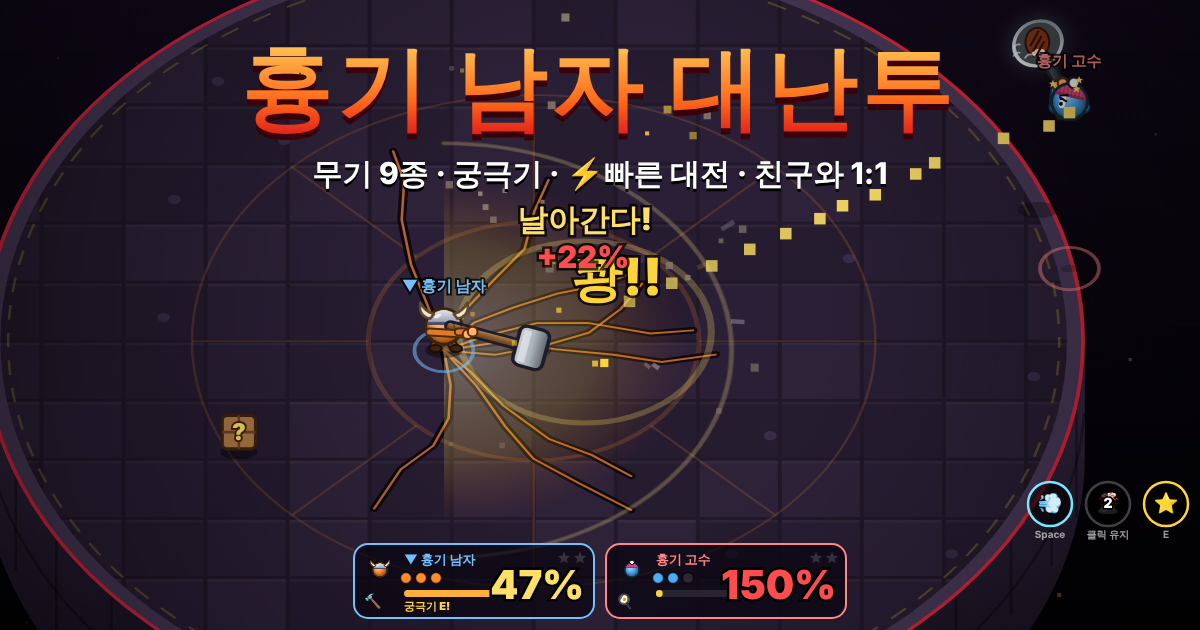
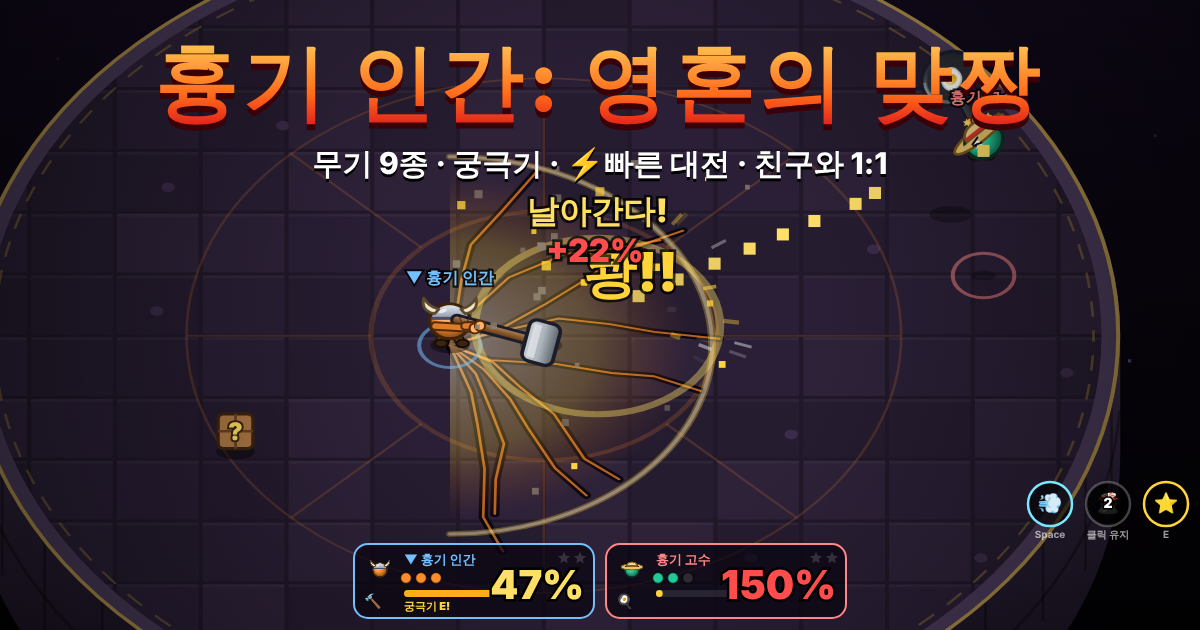
게임 제목을 '흉기 인간: 영혼의 맞짱'으로 변경
- 화면 제목·탭·링크 미리보기(문구·그림)·기본 캐릭터 이름 변경
- 예전 기본 이름을 쓰던 사람은 자동으로 새 이름으로

Claude-Session: https://claude.ai/code/session_01H1obTwPXtVzs6wE3Wii9HJ

diff --git a/docs/index.html b/docs/index.html
@@ -3,10 +3,10 @@
 <head>
 <meta charset="utf-8">
 <meta name="viewport" content="width=device-width,initial-scale=1,maximum-scale=1,user-scalable=no">
-<title>흉기 남자 대난투</title>
+<title>흉기 인간: 영혼의 맞짱</title>
 <meta name="description" content="링크만 누르면 바로! 무기 9종으로 상대를 경기장 밖으로 날려라. 봇 대결 · ⚡빠른 대전 · 친구와 1:1">
 <meta property="og:type" content="website">
-<meta property="og:title" content="흉기 남자 대난투">
+<meta property="og:title" content="흉기 인간: 영혼의 맞짱">
 <meta property="og:description" content="링크만 누르면 바로! 무기 9종으로 상대를 경기장 밖으로 날려라. 봇 대결 · ⚡빠른 대전 · 친구와 1:1">
 <meta property="og:url" content="https://isitcold07-glitch.github.io/dungi-brawl/">
 <meta property="og:image" content="https://isitcold07-glitch.github.io/dungi-brawl/og.png">
@@ -89,7 +89,7 @@ p.sub{opacity:.85;margin-bottom:14px;line-height:1.6}
 <div id="grdBtn" class="tbtn">🛡</div>
 
 <div id="menu" class="ov show">
-  <h1>흉기 남자<small>대난투</small></h1>
+  <h1>흉기 인간<small>영혼의 맞짱</small></h1>
   <p class="sub">때려서 %를 쌓고, 경기장 밖으로 날려라! 목숨 3개 · 3판 2선승</p>
   <div id="recLine" class="rec"></div>
   <div id="authBox" class="auth" style="display:none"></div>
@@ -115,7 +115,7 @@ p.sub{opacity:.85;margin-bottom:14px;line-height:1.6}
   <h2>🎨 꾸미기</h2>
   <canvas id="lookCv" width="520" height="420"></canvas>
   <div class="lab">이름</div>
-  <input id="nmIn" maxlength="8" placeholder="흉기 남자">
+  <input id="nmIn" maxlength="8" placeholder="흉기 인간">
   <div class="lab">몸 색</div><div class="opts" id="oCol"></div>
   <div class="lab">모자</div><div class="opts" id="oHat"></div>
   <div class="lab">눈</div><div class="opts" id="oEye"></div>
@@ -476,7 +476,7 @@ function overheadPose(){if(P.U&&P.U.k!=='twin'&&P.U.k!=='bat'&&P.U.k!=='flail')r
 let VG=null,VGs='';
 function vignette(){const key=W+'x'+H;if(VGs!==key){VGs=key;VG=ctx.createRadialGradient(W/2,H/2,Math.min(W,H)*.35,W/2,H/2,Math.hypot(W,H)*.6);VG.addColorStop(0,'rgba(0,0,0,0)');VG.addColorStop(1,'rgba(0,0,0,.6)');}ctx.fillStyle=VG;ctx.fillRect(0,0,W,H);}
 
-/* ================= 대난투 본체 ================= */
+/* ================= 게임 본체 ================= */
 const AR=430;            // 경기장 반지름
 const KB_DIV=145;         // 피해 %가 이만큼 쌓이면 넉백 2배
 const FRIC=3.2;          // 날아가는 속도 감속
@@ -530,8 +530,9 @@ const COLS=['#ff8c2b','#4dabf7','#51cf66','#ff6b9d','#b197fc','#ffd43b','#20c997
 const HATS=[['horn','뿔 투구'],['knight','기사 투구'],['crown','왕관'],['straw','밀짚모자'],['beanie','털모자'],['none','맨머리']];
 const EYES=[['norm','보통'],['angry','부리부리'],['sleepy','졸린 눈'],['dot','점 눈']];
 const WLV=[[0,'기본'],[2,'쇠테'],[4,'강철'],[6,'황금'],[8,'전설']];
-let LOOK={name:'흉기 남자',col:'#ff8c2b',hat:'horn',eye:'norm',wlv:0};
+let LOOK={name:'흉기 인간',col:'#ff8c2b',hat:'horn',eye:'norm',wlv:0};
 try{const s=JSON.parse(localStorage.getItem('brawlLook'));if(s)LOOK=Object.assign(LOOK,s);}catch(e){}
+if(LOOK.name==='흉기 남자'||LOOK.name==='둔기 남자')LOOK.name='흉기 인간'; // 예전 기본 이름은 새 기본 이름으로
 let CFG={wp:'hammer',bot:'random',lv:'normal',bo:3,items:true};
 try{const s=JSON.parse(localStorage.getItem('brawlCfg'));if(s)CFG=Object.assign(CFG,s);}catch(e){}
 // 전적: 기기에 저장, 로그인하면 Firebase에도 저장 (on = 온라인, bot = 봇)
@@ -665,7 +666,7 @@ const OV=['menu','look','pause','over','online'];
 function hideAll(){OV.forEach(i=>$(i).classList.remove('show'));}
 function show(i){hideAll();$(i).classList.add('show');}
 
-function mkF(id,wp,look,bot){const D=WD[wp];return{id,wp,bot,name:look.name||'흉기 남자',col:look.col,hat:look.hat,eye:look.eye,wlv:look.wlv,tc:id?'#ff8787':'#74c0fc',
+function mkF(id,wp,look,bot){const D=WD[wp];return{id,wp,bot,name:look.name||'흉기 인간',col:look.col,hat:look.hat,eye:look.eye,wlv:look.wlv,tc:id?'#ff8787':'#74c0fc',
  x:0,y:0,z:0,vz:0,kx:0,ky:0,r:14,pct:0,stocks:3,state:'alive',face:0,mvx:1,mvy:0,walk:0,
  reach:D.reach,arc:D.arc,spd:D.spd,sw:null,swCd:0,swDir:1,queued:false,charging:false,chargeT:0,chargeSnd:0,atkHeld:false,
  slamPend:null,slamCd:0,slamAnim:0,slamA:0,spinA:null,stun:0,lag:0,inv:0,rinv:0,dashT:0,dashN:D.dash,dashMax:D.dash,dashCd:0,dashCdMax:1.4,dvx:0,dvy:0,dashAt:-9,trailT:0,
@@ -1119,14 +1120,14 @@ function renderMenu(){const box=$('wcards');box.innerHTML='';
  const ds=$('dsel');ds.innerHTML='';for(const k in BOTD){const b=document.createElement('button');b.className=CFG.lv===k?'on':'';b.innerHTML=BOTD[k].nm+'<small>'+BOTD[k].sub+'</small>';b.onclick=()=>{CFG.lv=k;saveCfg();renderMenu();};ds.appendChild(b);}
  const is=$('isel');is.innerHTML='';for(const [k,nm,sub] of[[true,'📦 아이템 켬','가끔 상자가 떨어져요'],[false,'아이템 끔','실력만으로']]){const b=document.createElement('button');b.className=CFG.items===k?'on':'';b.innerHTML=nm+'<small>'+sub+'</small>';b.onclick=()=>{CFG.items=k;saveCfg();renderMenu();};is.appendChild(b);}
  const bo=$('bosel');bo.innerHTML='';for(const [k,nm,sub] of[[1,'단판','목숨 3개 한 판'],[3,'3판 2선승','먼저 2판 이기면 승리']]){const b=document.createElement('button');b.className=CFG.bo===k?'on':'';b.innerHTML=nm+'<small>'+sub+'</small>';b.onclick=()=>{CFG.bo=k;saveCfg();renderMenu();};bo.appendChild(b);}
- $('meName').textContent=LOOK.name||'흉기 남자';renderRec();renderAuth();}
+ $('meName').textContent=LOOK.name||'흉기 인간';renderRec();renderAuth();}
 function renderLook(){const mk=(id,list,cur,set,sw)=>{const box=$(id);box.innerHTML='';for(const [v,lb] of list){const b=document.createElement('button');b.className=(sw?'sw':'')+(cur===v?' on':'');if(sw){b.style.background=v;b.title=v;}else b.textContent=lb;b.onclick=()=>{set(v);saveLook();renderLook();};box.appendChild(b);}};
  mk('oCol',COLS.map(c=>[c,'']),LOOK.col,v=>LOOK.col=v,true);
  mk('oHat',HATS,LOOK.hat,v=>LOOK.hat=v);mk('oEye',EYES,LOOK.eye,v=>LOOK.eye=v);mk('oWlv',WLV,LOOK.wlv,v=>LOOK.wlv=v);}
 function openLook(){state='look';$('nmIn').value=LOOK.name;renderLook();show('look');}
-function closeLook(){LOOK.name=($('nmIn').value||'').trim().slice(0,8)||'흉기 남자';saveLook();state='menu';renderMenu();show('menu');}
+function closeLook(){LOOK.name=($('nmIn').value||'').trim().slice(0,8)||'흉기 인간';saveLook();state='menu';renderMenu();show('menu');}
 $('lookBtn').onclick=openLook;$('lookDone').onclick=closeLook;
-$('nmIn').addEventListener('input',()=>{LOOK.name=$('nmIn').value.trim().slice(0,8)||'흉기 남자';});
+$('nmIn').addEventListener('input',()=>{LOOK.name=$('nmIn').value.trim().slice(0,8)||'흉기 인간';});
 
 // 미리보기 캐릭터 (메뉴·꾸미기 화면): 천천히 돌면서 가끔 휘두른다
 let pv=null,pvT=0;

diff --git a/둔기대난투/brawl_dev.html b/둔기대난투/brawl_dev.html
@@ -3,7 +3,7 @@
 <head>
 <meta charset="utf-8">
 <meta name="viewport" content="width=device-width,initial-scale=1,maximum-scale=1,user-scalable=no">
-<title>흉기 남자 대난투</title>
+<title>흉기 인간: 영혼의 맞짱</title>
 <style>
 *{box-sizing:border-box;margin:0;padding:0}
 html,body{height:100%;overflow:hidden;background:#0b0710;font-family:system-ui,-apple-system,"Apple SD Gothic Neo","Malgun Gothic",sans-serif;color:#f4ecff;user-select:none;-webkit-user-select:none;touch-action:none}
@@ -78,7 +78,7 @@ p.sub{opacity:.85;margin-bottom:14px;line-height:1.6}
 <div id="grdBtn" class="tbtn">🛡</div>
 
 <div id="menu" class="ov show">
-  <h1>흉기 남자<small>대난투</small></h1>
+  <h1>흉기 인간<small>영혼의 맞짱</small></h1>
   <p class="sub">때려서 %를 쌓고, 경기장 밖으로 날려라! 목숨 3개 · 3판 2선승</p>
   <div id="recLine" class="rec"></div>
   <div id="authBox" class="auth" style="display:none"></div>
@@ -104,7 +104,7 @@ p.sub{opacity:.85;margin-bottom:14px;line-height:1.6}
   <h2>🎨 꾸미기</h2>
   <canvas id="lookCv" width="520" height="420"></canvas>
   <div class="lab">이름</div>
-  <input id="nmIn" maxlength="8" placeholder="흉기 남자">
+  <input id="nmIn" maxlength="8" placeholder="흉기 인간">
   <div class="lab">몸 색</div><div class="opts" id="oCol"></div>
   <div class="lab">모자</div><div class="opts" id="oHat"></div>
   <div class="lab">눈</div><div class="opts" id="oEye"></div>
@@ -465,7 +465,7 @@ function overheadPose(){if(P.U&&P.U.k!=='twin'&&P.U.k!=='bat'&&P.U.k!=='flail')r
 let VG=null,VGs='';
 function vignette(){const key=W+'x'+H;if(VGs!==key){VGs=key;VG=ctx.createRadialGradient(W/2,H/2,Math.min(W,H)*.35,W/2,H/2,Math.hypot(W,H)*.6);VG.addColorStop(0,'rgba(0,0,0,0)');VG.addColorStop(1,'rgba(0,0,0,.6)');}ctx.fillStyle=VG;ctx.fillRect(0,0,W,H);}
 
-/* ================= 대난투 본체 ================= */
+/* ================= 게임 본체 ================= */
 const AR=430;            // 경기장 반지름
 const KB_DIV=145;         // 피해 %가 이만큼 쌓이면 넉백 2배
 const FRIC=3.2;          // 날아가는 속도 감속
@@ -519,8 +519,9 @@ const COLS=['#ff8c2b','#4dabf7','#51cf66','#ff6b9d','#b197fc','#ffd43b','#20c997
 const HATS=[['horn','뿔 투구'],['knight','기사 투구'],['crown','왕관'],['straw','밀짚모자'],['beanie','털모자'],['none','맨머리']];
 const EYES=[['norm','보통'],['angry','부리부리'],['sleepy','졸린 눈'],['dot','점 눈']];
 const WLV=[[0,'기본'],[2,'쇠테'],[4,'강철'],[6,'황금'],[8,'전설']];
-let LOOK={name:'흉기 남자',col:'#ff8c2b',hat:'horn',eye:'norm',wlv:0};
+let LOOK={name:'흉기 인간',col:'#ff8c2b',hat:'horn',eye:'norm',wlv:0};
 try{const s=JSON.parse(localStorage.getItem('brawlLook'));if(s)LOOK=Object.assign(LOOK,s);}catch(e){}
+if(LOOK.name==='흉기 남자'||LOOK.name==='둔기 남자')LOOK.name='흉기 인간'; // 예전 기본 이름은 새 기본 이름으로
 let CFG={wp:'hammer',bot:'random',lv:'normal',bo:3,items:true};
 try{const s=JSON.parse(localStorage.getItem('brawlCfg'));if(s)CFG=Object.assign(CFG,s);}catch(e){}
 // 전적: 기기에 저장, 로그인하면 Firebase에도 저장 (on = 온라인, bot = 봇)
@@ -654,7 +655,7 @@ const OV=['menu','look','pause','over','online'];
 function hideAll(){OV.forEach(i=>$(i).classList.remove('show'));}
 function show(i){hideAll();$(i).classList.add('show');}
 
-function mkF(id,wp,look,bot){const D=WD[wp];return{id,wp,bot,name:look.name||'흉기 남자',col:look.col,hat:look.hat,eye:look.eye,wlv:look.wlv,tc:id?'#ff8787':'#74c0fc',
+function mkF(id,wp,look,bot){const D=WD[wp];return{id,wp,bot,name:look.name||'흉기 인간',col:look.col,hat:look.hat,eye:look.eye,wlv:look.wlv,tc:id?'#ff8787':'#74c0fc',
  x:0,y:0,z:0,vz:0,kx:0,ky:0,r:14,pct:0,stocks:3,state:'alive',face:0,mvx:1,mvy:0,walk:0,
  reach:D.reach,arc:D.arc,spd:D.spd,sw:null,swCd:0,swDir:1,queued:false,charging:false,chargeT:0,chargeSnd:0,atkHeld:false,
  slamPend:null,slamCd:0,slamAnim:0,slamA:0,spinA:null,stun:0,lag:0,inv:0,rinv:0,dashT:0,dashN:D.dash,dashMax:D.dash,dashCd:0,dashCdMax:1.4,dvx:0,dvy:0,dashAt:-9,trailT:0,
@@ -1108,14 +1109,14 @@ function renderMenu(){const box=$('wcards');box.innerHTML='';
  const ds=$('dsel');ds.innerHTML='';for(const k in BOTD){const b=document.createElement('button');b.className=CFG.lv===k?'on':'';b.innerHTML=BOTD[k].nm+'<small>'+BOTD[k].sub+'</small>';b.onclick=()=>{CFG.lv=k;saveCfg();renderMenu();};ds.appendChild(b);}
  const is=$('isel');is.innerHTML='';for(const [k,nm,sub] of[[true,'📦 아이템 켬','가끔 상자가 떨어져요'],[false,'아이템 끔','실력만으로']]){const b=document.createElement('button');b.className=CFG.items===k?'on':'';b.innerHTML=nm+'<small>'+sub+'</small>';b.onclick=()=>{CFG.items=k;saveCfg();renderMenu();};is.appendChild(b);}
  const bo=$('bosel');bo.innerHTML='';for(const [k,nm,sub] of[[1,'단판','목숨 3개 한 판'],[3,'3판 2선승','먼저 2판 이기면 승리']]){const b=document.createElement('button');b.className=CFG.bo===k?'on':'';b.innerHTML=nm+'<small>'+sub+'</small>';b.onclick=()=>{CFG.bo=k;saveCfg();renderMenu();};bo.appendChild(b);}
- $('meName').textContent=LOOK.name||'흉기 남자';renderRec();renderAuth();}
+ $('meName').textContent=LOOK.name||'흉기 인간';renderRec();renderAuth();}
 function renderLook(){const mk=(id,list,cur,set,sw)=>{const box=$(id);box.innerHTML='';for(const [v,lb] of list){const b=document.createElement('button');b.className=(sw?'sw':'')+(cur===v?' on':'');if(sw){b.style.background=v;b.title=v;}else b.textContent=lb;b.onclick=()=>{set(v);saveLook();renderLook();};box.appendChild(b);}};
  mk('oCol',COLS.map(c=>[c,'']),LOOK.col,v=>LOOK.col=v,true);
  mk('oHat',HATS,LOOK.hat,v=>LOOK.hat=v);mk('oEye',EYES,LOOK.eye,v=>LOOK.eye=v);mk('oWlv',WLV,LOOK.wlv,v=>LOOK.wlv=v);}
 function openLook(){state='look';$('nmIn').value=LOOK.name;renderLook();show('look');}
-function closeLook(){LOOK.name=($('nmIn').value||'').trim().slice(0,8)||'흉기 남자';saveLook();state='menu';renderMenu();show('menu');}
+function closeLook(){LOOK.name=($('nmIn').value||'').trim().slice(0,8)||'흉기 인간';saveLook();state='menu';renderMenu();show('menu');}
 $('lookBtn').onclick=openLook;$('lookDone').onclick=closeLook;
-$('nmIn').addEventListener('input',()=>{LOOK.name=$('nmIn').value.trim().slice(0,8)||'흉기 남자';});
+$('nmIn').addEventListener('input',()=>{LOOK.name=$('nmIn').value.trim().slice(0,8)||'흉기 인간';});
 
 // 미리보기 캐릭터 (메뉴·꾸미기 화면): 천천히 돌면서 가끔 휘두른다
 let pv=null,pvT=0;

diff --git a/둔기대난투/brawl.html b/둔기대난투/brawl.html
@@ -1,4 +1,4 @@
-<title>흉기 남자 대난투</title>
+<title>흉기 인간: 영혼의 맞짱</title>
 <style>
 *{box-sizing:border-box;margin:0;padding:0}
 html,body{height:100%;overflow:hidden;background:#0b0710;font-family:system-ui,-apple-system,"Apple SD Gothic Neo","Malgun Gothic",sans-serif;color:#f4ecff;user-select:none;-webkit-user-select:none;touch-action:none}
@@ -71,7 +71,7 @@ p.sub{opacity:.85;margin-bottom:14px;line-height:1.6}
 <div id="grdBtn" class="tbtn">🛡</div>
 
 <div id="menu" class="ov show">
-  <h1>흉기 남자<small>대난투</small></h1>
+  <h1>흉기 인간<small>영혼의 맞짱</small></h1>
   <p class="sub">때려서 %를 쌓고, 경기장 밖으로 날려라! 목숨 3개 · 3판 2선승</p>
   <div id="recLine" class="rec"></div>
   <div id="authBox" class="auth" style="display:none"></div>
@@ -97,7 +97,7 @@ p.sub{opacity:.85;margin-bottom:14px;line-height:1.6}
   <h2>🎨 꾸미기</h2>
   <canvas id="lookCv" width="520" height="420"></canvas>
   <div class="lab">이름</div>
-  <input id="nmIn" maxlength="8" placeholder="흉기 남자">
+  <input id="nmIn" maxlength="8" placeholder="흉기 인간">
   <div class="lab">몸 색</div><div class="opts" id="oCol"></div>
   <div class="lab">모자</div><div class="opts" id="oHat"></div>
   <div class="lab">눈</div><div class="opts" id="oEye"></div>
@@ -458,7 +458,7 @@ function overheadPose(){if(P.U&&P.U.k!=='twin'&&P.U.k!=='bat'&&P.U.k!=='flail')r
 let VG=null,VGs='';
 function vignette(){const key=W+'x'+H;if(VGs!==key){VGs=key;VG=ctx.createRadialGradient(W/2,H/2,Math.min(W,H)*.35,W/2,H/2,Math.hypot(W,H)*.6);VG.addColorStop(0,'rgba(0,0,0,0)');VG.addColorStop(1,'rgba(0,0,0,.6)');}ctx.fillStyle=VG;ctx.fillRect(0,0,W,H);}
 
-/* ================= 대난투 본체 ================= */
+/* ================= 게임 본체 ================= */
 const AR=430;            // 경기장 반지름
 const KB_DIV=145;         // 피해 %가 이만큼 쌓이면 넉백 2배
 const FRIC=3.2;          // 날아가는 속도 감속
@@ -512,8 +512,9 @@ const COLS=['#ff8c2b','#4dabf7','#51cf66','#ff6b9d','#b197fc','#ffd43b','#20c997
 const HATS=[['horn','뿔 투구'],['knight','기사 투구'],['crown','왕관'],['straw','밀짚모자'],['beanie','털모자'],['none','맨머리']];
 const EYES=[['norm','보통'],['angry','부리부리'],['sleepy','졸린 눈'],['dot','점 눈']];
 const WLV=[[0,'기본'],[2,'쇠테'],[4,'강철'],[6,'황금'],[8,'전설']];
-let LOOK={name:'흉기 남자',col:'#ff8c2b',hat:'horn',eye:'norm',wlv:0};
+let LOOK={name:'흉기 인간',col:'#ff8c2b',hat:'horn',eye:'norm',wlv:0};
 try{const s=JSON.parse(localStorage.getItem('brawlLook'));if(s)LOOK=Object.assign(LOOK,s);}catch(e){}
+if(LOOK.name==='흉기 남자'||LOOK.name==='둔기 남자')LOOK.name='흉기 인간'; // 예전 기본 이름은 새 기본 이름으로
 let CFG={wp:'hammer',bot:'random',lv:'normal',bo:3,items:true};
 try{const s=JSON.parse(localStorage.getItem('brawlCfg'));if(s)CFG=Object.assign(CFG,s);}catch(e){}
 // 전적: 기기에 저장, 로그인하면 Firebase에도 저장 (on = 온라인, bot = 봇)
@@ -647,7 +648,7 @@ const OV=['menu','look','pause','over','online'];
 function hideAll(){OV.forEach(i=>$(i).classList.remove('show'));}
 function show(i){hideAll();$(i).classList.add('show');}
 
-function mkF(id,wp,look,bot){const D=WD[wp];return{id,wp,bot,name:look.name||'흉기 남자',col:look.col,hat:look.hat,eye:look.eye,wlv:look.wlv,tc:id?'#ff8787':'#74c0fc',
+function mkF(id,wp,look,bot){const D=WD[wp];return{id,wp,bot,name:look.name||'흉기 인간',col:look.col,hat:look.hat,eye:look.eye,wlv:look.wlv,tc:id?'#ff8787':'#74c0fc',
  x:0,y:0,z:0,vz:0,kx:0,ky:0,r:14,pct:0,stocks:3,state:'alive',face:0,mvx:1,mvy:0,walk:0,
  reach:D.reach,arc:D.arc,spd:D.spd,sw:null,swCd:0,swDir:1,queued:false,charging:false,chargeT:0,chargeSnd:0,atkHeld:false,
  slamPend:null,slamCd:0,slamAnim:0,slamA:0,spinA:null,stun:0,lag:0,inv:0,rinv:0,dashT:0,dashN:D.dash,dashMax:D.dash,dashCd:0,dashCdMax:1.4,dvx:0,dvy:0,dashAt:-9,trailT:0,
@@ -1101,14 +1102,14 @@ function renderMenu(){const box=$('wcards');box.innerHTML='';
  const ds=$('dsel');ds.innerHTML='';for(const k in BOTD){const b=document.createElement('button');b.className=CFG.lv===k?'on':'';b.innerHTML=BOTD[k].nm+'<small>'+BOTD[k].sub+'</small>';b.onclick=()=>{CFG.lv=k;saveCfg();renderMenu();};ds.appendChild(b);}
  const is=$('isel');is.innerHTML='';for(const [k,nm,sub] of[[true,'📦 아이템 켬','가끔 상자가 떨어져요'],[false,'아이템 끔','실력만으로']]){const b=document.createElement('button');b.className=CFG.items===k?'on':'';b.innerHTML=nm+'<small>'+sub+'</small>';b.onclick=()=>{CFG.items=k;saveCfg();renderMenu();};is.appendChild(b);}
  const bo=$('bosel');bo.innerHTML='';for(const [k,nm,sub] of[[1,'단판','목숨 3개 한 판'],[3,'3판 2선승','먼저 2판 이기면 승리']]){const b=document.createElement('button');b.className=CFG.bo===k?'on':'';b.innerHTML=nm+'<small>'+sub+'</small>';b.onclick=()=>{CFG.bo=k;saveCfg();renderMenu();};bo.appendChild(b);}
- $('meName').textContent=LOOK.name||'흉기 남자';renderRec();renderAuth();}
+ $('meName').textContent=LOOK.name||'흉기 인간';renderRec();renderAuth();}
 function renderLook(){const mk=(id,list,cur,set,sw)=>{const box=$(id);box.innerHTML='';for(const [v,lb] of list){const b=document.createElement('button');b.className=(sw?'sw':'')+(cur===v?' on':'');if(sw){b.style.background=v;b.title=v;}else b.textContent=lb;b.onclick=()=>{set(v);saveLook();renderLook();};box.appendChild(b);}};
  mk('oCol',COLS.map(c=>[c,'']),LOOK.col,v=>LOOK.col=v,true);
  mk('oHat',HATS,LOOK.hat,v=>LOOK.hat=v);mk('oEye',EYES,LOOK.eye,v=>LOOK.eye=v);mk('oWlv',WLV,LOOK.wlv,v=>LOOK.wlv=v);}
 function openLook(){state='look';$('nmIn').value=LOOK.name;renderLook();show('look');}
-function closeLook(){LOOK.name=($('nmIn').value||'').trim().slice(0,8)||'흉기 남자';saveLook();state='menu';renderMenu();show('menu');}
+function closeLook(){LOOK.name=($('nmIn').value||'').trim().slice(0,8)||'흉기 인간';saveLook();state='menu';renderMenu();show('menu');}
 $('lookBtn').onclick=openLook;$('lookDone').onclick=closeLook;
-$('nmIn').addEventListener('input',()=>{LOOK.name=$('nmIn').value.trim().slice(0,8)||'흉기 남자';});
+$('nmIn').addEventListener('input',()=>{LOOK.name=$('nmIn').value.trim().slice(0,8)||'흉기 인간';});
 
 // 미리보기 캐릭터 (메뉴·꾸미기 화면): 천천히 돌면서 가끔 휘두른다
 let pv=null,pvT=0;

diff --git a/둔기대난투/build_public.py b/둔기대난투/build_public.py
@@ -13,7 +13,7 @@ os.makedirs('../docs', exist_ok=True)
 URL = 'https://isitcold07-glitch.github.io/dungi-brawl/'
 DESC = '링크만 누르면 바로! 무기 9종으로 상대를 경기장 밖으로 날려라. 봇 대결 · ⚡빠른 대전 · 친구와 1:1'
 og = ('<meta name="description" content="%s">\n'
-      '<meta property="og:type" content="website">\n<meta property="og:title" content="흉기 남자 대난투">\n'
+      '<meta property="og:type" content="website">\n<meta property="og:title" content="흉기 인간: 영혼의 맞짱">\n'
       '<meta property="og:description" content="%s">\n<meta property="og:url" content="%s">\n'
       '<meta property="og:image" content="%sog.png">\n<meta property="og:image:width" content="1200">\n<meta property="og:image:height" content="630">\n'
       '<meta name="twitter:card" content="summary_large_image">\n<meta name="theme-color" content="#0b0710">\n') % (DESC, DESC, URL, URL)

diff --git a/둔기대난투/대난투_기획메모.md b/둔기대난투/대난투_기획메모.md
@@ -1,4 +1,4 @@
-# 흉기 남자 대난투 (구 둔기 남자 대난투) — 기획 메모 (새 세션 시작용)
+# 흉기 인간: 영혼의 맞짱 (구 흉기 남자 대난투 · 둔기 남자 대난투) — 기획 메모 (새 세션 시작용)
 
 > 「둔기 남자」(로그라이크, 바탕화면 `해머버서커` 폴더)에서 캐릭터·무기·타격감만 가져와 만드는 **1:1 PvP 대결 게임**. 완전히 새 파일로 만든다. 원본 게임 파일은 건드리지 않는다.
 > 새 세션에서는 "이 메모 보고 1단계 만들어 줘"라고 하면 된다. 참고용 원본은 `바탕화면\해머버서커\hammer_dev.html`.
@@ -148,6 +148,10 @@
 - 테스트(edgegrab.js): 가장자리 0% 상대 장외 / 상대가 대시로 피하면 잡은 쪽 장외 / 가운데 헛잡기 생존 / 벼랑 쪽 헛손질 장외
 - **버그 수정**: 가장자리 버티기가 세게 날아가는 경우에도 가장자리 바로 안쪽 칸에서 붙잡아 세우던 문제(날아가는 속도가 LEDGE_V 이상이고 바깥쪽이면 붙잡지 않음). 이 버그가 사실상 장외를 막아 주고 있어서 수정 후 장외가 쉬워짐 → KB_DIV 115→145, LEDGE_V 300→420, 봇 벼랑 잡기 확률 낮춤
 - 봇 대전(어려움, 81판): 장외 % 중앙값 평균 80 → (수정 직후 55) → 70, 40% 미만 장외 20%(대부분 가장자리에서 맞은 차지·궁극기), 평균 경기 120초
+
+### 제목 변경: 흉기 인간: 영혼의 맞짱 (2026-10-16)
+- '흉기 남자'는 성별을 가르는 느낌, '대난투'는 닌텐도 「대난투 스매시브라더스」와 겹칠 수 있어서 변경. 화면 제목(큰 글씨 '흉기 인간' + 작은 글씨 '영혼의 맞짱'), 탭 이름, 링크 미리보기 제목·그림(docs/og.png), 기본 캐릭터 이름 '흉기 인간'
+- 저장된 이름이 예전 기본값('흉기 남자'·'둔기 남자')이면 자동으로 '흉기 인간'으로 바꿈. 폴더·파일·주소는 그대로
 
 ### 다음에 확인·조정할 것
 - 실제 온라인: 친구 초대해서 렉·타격 판정 체감 확인
